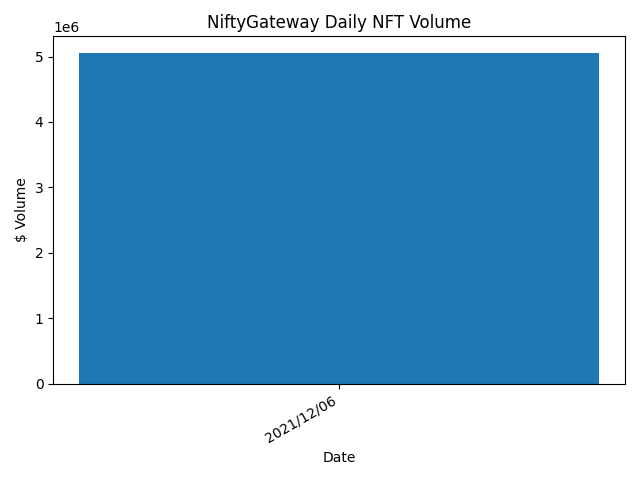
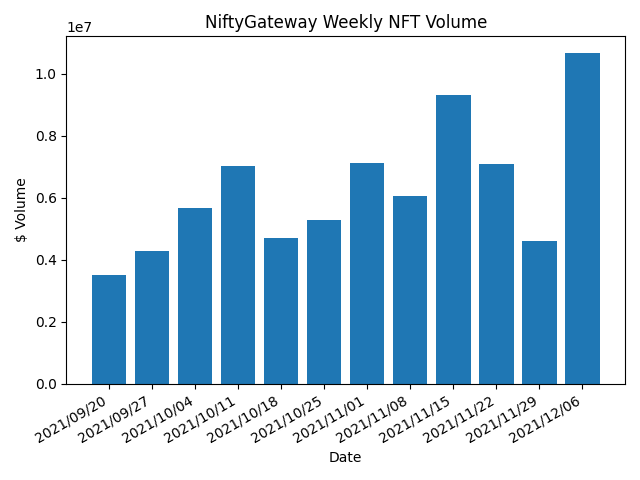
new version getting around reate limits by being slow as hell

diff --git a/niftygateway-volume.py b/niftygateway-volume.py
@@ -9,7 +9,7 @@ import time
 def main():
     tracker = NiftyGatewayVolumeTracker()
 
-    rows = Parallel(n_jobs=50)(delayed(tracker.get_trades)(i) for i in range(1, 5000))
+    rows = [tracker.get_trades(i) for i in range(1, 1001)]
     trades = pd.DataFrame()
     for row in rows:
         trades = pd.concat([trades, pd.DataFrame(row)])
@@ -18,6 +18,7 @@ def main():
     trades["tx_amount"] = (trades["birthingPurchaseAmountInCents"] + trades["saleAmountInCents"]) / 100
 
     weekly_volume = tracker.calc_weekly_volume(trades)
+    weekly_volume.sort_values('timestamp')
     print(weekly_volume)
 
     plt.figure(1)
@@ -26,7 +27,7 @@ def main():
     ax.bar(weekly_volume.index, weekly_volume["tx_amount"])
     plt.xlabel("Date")
     plt.ylabel("$ Volume")
-    plt.title("NiftyGateway Daily NFT Volume")
+    plt.title("NiftyGateway Weekly NFT Volume")
 
     fig.autofmt_xdate()
 
@@ -38,29 +39,28 @@ class NiftyGatewayVolumeTracker():
         self.url = "https://api.niftygateway.com/market/all-data/?page=%7B%22current%22:{},%22size%22:100%7D&filters=%7B%22exclude_types%22:[%22withdrawals%22,%22single_nifty_offers%22,%22global_nifty_offers%22,%22attribute_nifty_offers%22,%22primary_market_bids%22,%22gifts%22,%22deposits%22,%22listings%22]%7D"
 
     def get_trades(self, i):
-        ids = set()
-        all_trades = []
+        print(i)
+        trades = []
 
-        for i in range(100):
-            try:
-                r = requests.get(self.url.format(i))
-                data = r.json()
+        for j in range(100):
+            print(j)
+            r = requests.get(self.url.format(i))
+            data = r.json()
+            #print(data)
+            print(data['message'])
 
-                if data['details'].index('limit') > -1:
-                    time.sleep(5)
-                    continue
-                else:
-                    try:
-                        trades = data['data']['results']
-                        trades = [{'timestamp': t['Timestamp'], 'type': t['Type'], 'id': t['id'], 'birthingPurchaseAmountInCents': t['BirthingPurchaseAmountInCents'], 'saleAmountInCents': t['SaleAmountInCents']} for t in trades]
-                    except:
-                        trades = data
-                        trades = [{'timestamp': t['Timestamp'], 'type': t['Type'], 'id': t['id'], 'birthingPurchaseAmountInCents': t['BirthingPurchaseAmountInCents'], 'saleAmountInCents': t['SaleAmountInCents']} for t in trades]
-                    
-                    break
-            except:
+            if 'limit' in data['message']:
                 time.sleep(5)
                 continue
+            else:
+                try:
+                    trades = data['data']['results']
+                    trades = [{'timestamp': t['Timestamp'], 'type': t['Type'], 'id': t['id'], 'birthingPurchaseAmountInCents': t['BirthingPurchaseAmountInCents'], 'saleAmountInCents': t['SaleAmountInCents']} for t in trades]
+                    break
+                except:
+                    trades = data
+                    trades = [{'timestamp': t['Timestamp'], 'type': t['Type'], 'id': t['id'], 'birthingPurchaseAmountInCents': t['BirthingPurchaseAmountInCents'], 'saleAmountInCents': t['SaleAmountInCents']} for t in trades]
+                    break
 
         return trades
 
